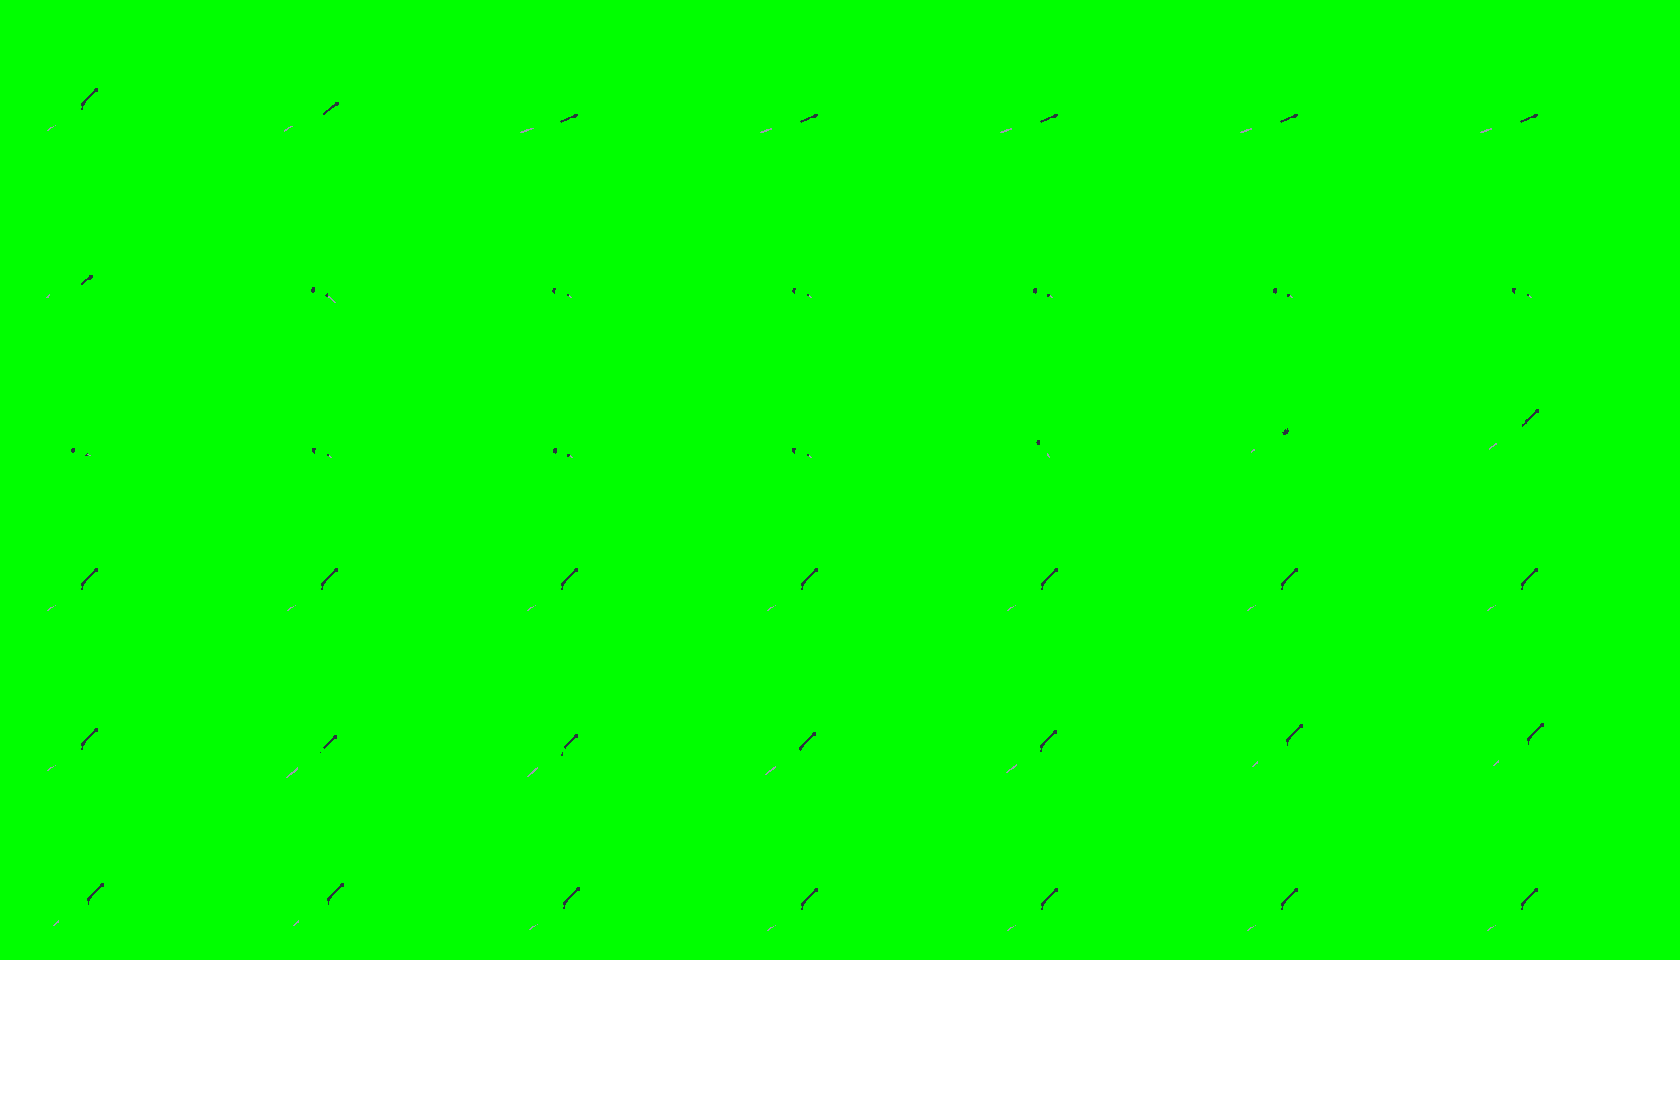
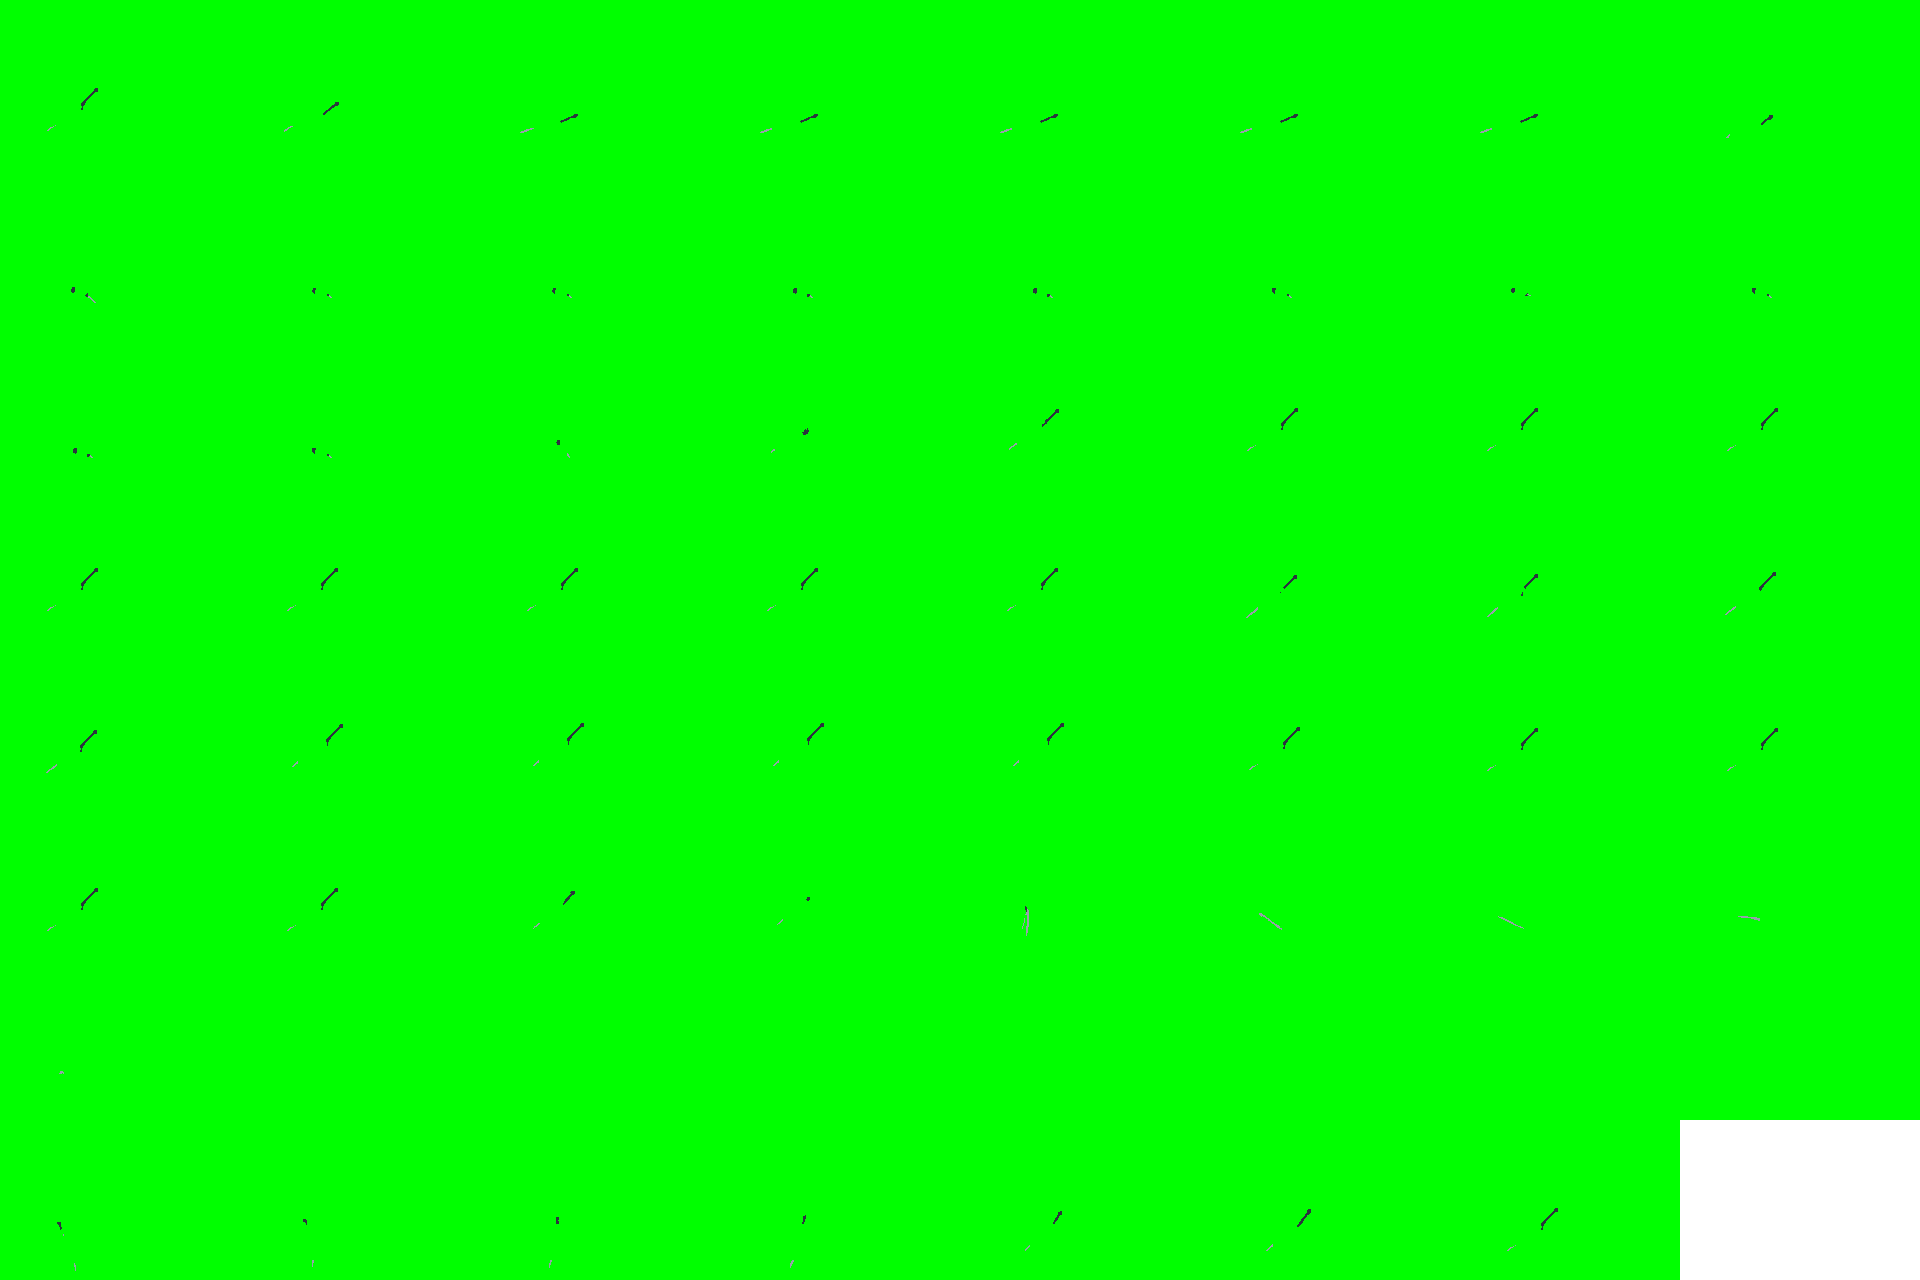
WCP: Add animations to interaction 2 sheet

Changed region(s): [[0.0, 0.8438, 1.0, 1.0]]

diff --git a/sdk/krita/scripts/animation_exporter.py b/sdk/krita/scripts/animation_exporter.py
@@ -3,9 +3,10 @@ import time
 import math
 from PyQt5 import QtGui, QtCore, QtWidgets
 
-
-OUTPUT_PATH = r"D:\Works\code\GitHub\theWhiteCrowParrot\whitecrowparrot\animations\whitecrow\cavejump.png"
-# OUTPUT_PATH = r"c:/perso/theWhiteCrowParrot\whitecrowparrot\animations\whitecrow\test.png"
+ROOT = 'D:/Works/code/GitHub/theWhiteCrowParrot'
+# ROOT = 'c:/perso/theWhiteCrowParrot'
+OUTPUT_PATH = "{root}/whitecrowparrot/animations/whitecrow/export/interactions_2_{layer}.png"
+# OUTPUT_PATH = "{root}/whitecrowparrot/animations/whitecrow/interaction_2.png"
 SRGB_PROFILE = "sRGB-elle-V2-srgbtrc.icc"
 
 
@@ -70,6 +71,7 @@ def fill_canvas(canvas, images, column_lenght, frame_width, frame_height):
 def export(filename):
     soft = krita.Krita.instance()
     document = soft.activeDocument()
+    document.setCurrentTime(0)
     width, height = document.bounds().width(), document.bounds().height()
     node = document.activeNode()
 
@@ -87,8 +89,10 @@ def export(filename):
     canvas_size = get_canvas_size(frame_count, column_lenght, width, height)
     canvas = QtGui.QImage(canvas_size, QtGui.QImage.Format_ARGB32)
     fill_canvas(canvas, images, column_lenght, width, height)
+    filename = filename.format(layer=node.name(), root=ROOT)
     canvas.save(filename, "PNG")
     print(get_node_frames_duration(node, range_out=document.animationLength()))
+    document.setCurrentTime(0)
     return canvas
 
 
